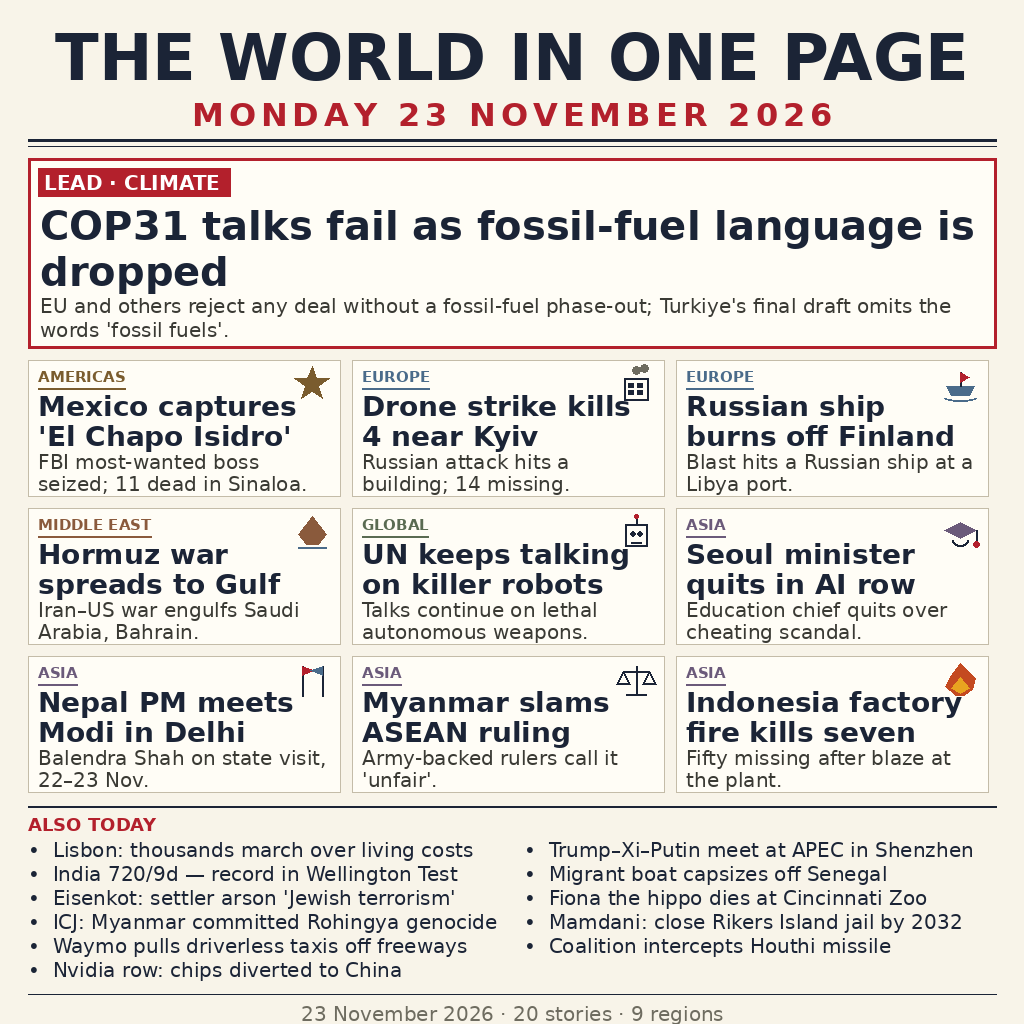
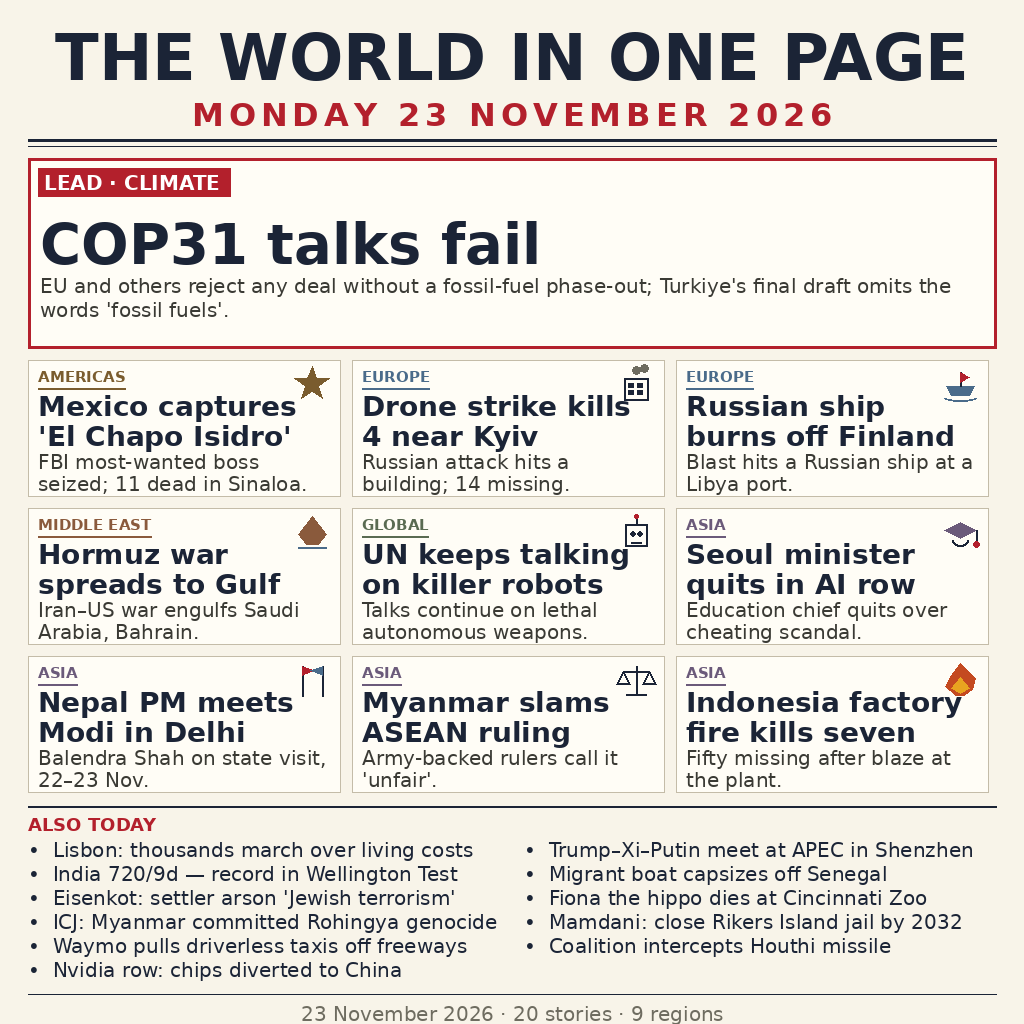
Revision: single-line lead headline at 56px, no orphan word

Changed region(s): [[0.0312, 0.1875, 0.9688, 0.3438]]

diff --git a/gen_image.py b/gen_image.py
@@ -40,7 +40,7 @@ def font(name, size):
 F_TITLE = font("DejaVuSans-Bold.ttf", 64)
 F_DATE = font("DejaVuSans-Bold.ttf", 32)
 F_LEAD_TAG = font("DejaVuSans-Bold.ttf", 20)
-F_LEAD_HEAD = font("DejaVuSans-Bold.ttf", 40)
+F_LEAD_HEAD = font("DejaVuSans-Bold.ttf", 56)
 F_LEAD_DECK = font("DejaVuSans.ttf", 20)
 F_TAG = font("DejaVuSans-Bold.ttf", 15)
 F_HEAD = font("DejaVuSans-Bold.ttf", 28)
@@ -204,12 +204,12 @@ def render():
     d.rectangle([mx + 10, ly0 + 10, mx + 10 + tag_w, ly0 + 38], fill=RED)
     d.text((mx + 16, ly0 + 13), tag_txt, font=F_LEAD_TAG,
            fill=(255, 255, 255))
-    head = "COP31 talks fail as fossil-fuel language is dropped"
+    head = "COP31 talks fail"
     lines = wrap(d, head, F_LEAD_HEAD, right - mx - 24)
-    y = ly0 + 44
+    y = ly0 + 54
     for ln in lines:
         d.text((mx + 12, y), ln, font=F_LEAD_HEAD, fill=INK)
-        y += 46
+        y += 62
     deck = ("EU and others reject any deal without a fossil-fuel phase-out; "
             "Turkiye's final draft omits the words 'fossil fuels'.")
     for ln in wrap(d, deck, F_LEAD_DECK, right - mx - 24):
